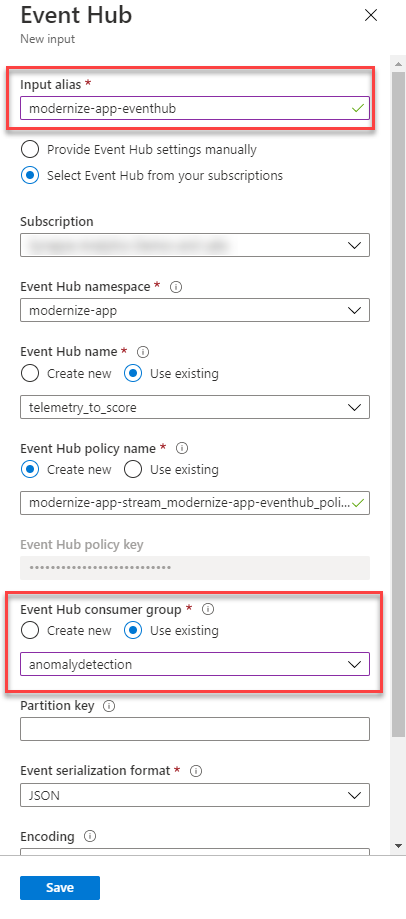
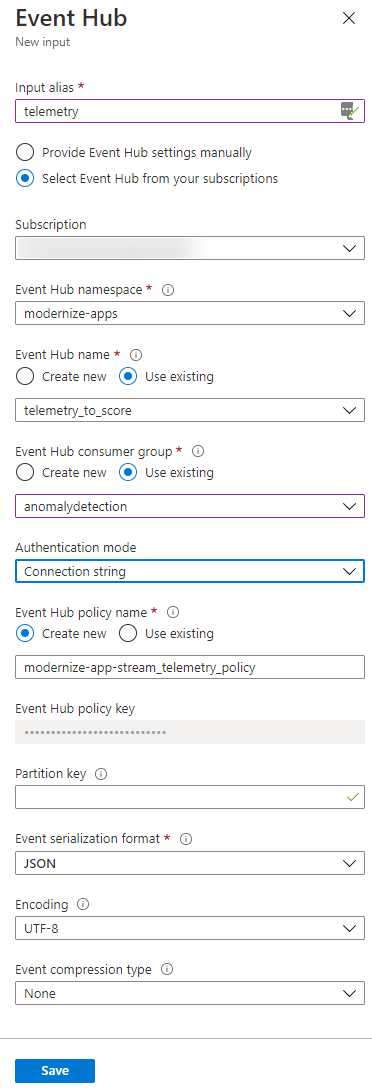
Updating screenshots and labs

diff --git a/Hands-on lab/HOL step-by step - Innovate and modernize apps with Data and AI.md b/Hands-on lab/HOL step-by step - Innovate and modernize apps with Data and AI.md
@@ -118,6 +118,8 @@ The web app is a modernized version of WWI's old monolithic web app, implementin
 
 6. Install [Power BI Desktop](https://aka.ms/pbidesktopstore).
 
+7. Install the latest version of [the .NET Core 3.1 SDK](https://dotnet.microsoft.com/download/dotnet/3.1).
+
 ## Before the hands-on lab
 
 Refer to the Before the hands-on lab setup guide manual before continuing to the lab exercises.
@@ -589,7 +591,7 @@ The instructions in this task come from the guide on [how to install IoT Edge on
     }
     ```
 
-    For an explanation of the code, we will send messages to Azure IoT Hub in the shape of `MessageBody`, which includes a `Machine` entry containing information about the monitored machine, as well as an `Ambient` entry which contains the current temperature and humidity in the room.  The `Run()` method controls message management, sending one message every `Interval` seconds, though this is configurable as an environment setting.  We connect to the Edge runtime and, once synchronization with the IoT Hub is complete, we build out new messages using `GenerateNewMessage()` and send them.  The `GenerateNewMessage()` function builds artificial messages which generally follow a normal distribution but occasionally exhibit anomalous behavior.  After generating and sending a message, we wait `Interval` milliseconds before sending a new message.
+    For an explanation of the code, we will send messages to Azure IoT Hub in the shape of `MessageBody`, which includes a `Machine` entry containing information about the monitored machine, as well as an `Ambient` entry which contains the current temperature and humidity in the room.  The `Run()` method controls message management, sending one message every `Interval` milliseconds, though this is configurable as an environment setting.  We connect to the Edge runtime and, once synchronization with the IoT Hub is complete, we build out new messages using `GenerateNewMessage()` and send them.  The `GenerateNewMessage()` function builds artificial messages which generally follow a normal distribution but occasionally exhibit anomalous behavior.  After generating and sending a message, we wait `Interval` milliseconds before sending a new message.
 
 12. Navigate to the **Command Palette** by selecting it from the View menu, or by pressing `Ctrl+Shift+P`. Select the option **Azure IoT Edge: Set Default Target Platform for Edge Solution**.
 
@@ -695,13 +697,14 @@ Now that your data is streaming into Azure IoT Hub, it is time to train and buil
    | Subscription ID                | _select the appropriate subscription_              |
    | Storage account                | _select `modernizeappstorage#SUFFIX#`_             |
    | Blob container                 | _select `synapse`_                                 |
-   | Allow Azure ML Service...      | _select `No`_                                      |
+   | Save credentials with the datastore for data access | _select `Yes`_                |
    | Authentication type            | _select `Account key`_                             |
    | Account key                    | _enter the account key_                            |
+   | Use workspace managed identity for data preview ...      | _select `No`_            |
 
    ![In the New datastore output, form field entries are filled in.](media/azure-ml-new-datastore-1.png 'New datastore')
 
-   >**Note**: If you have not stored your storage account key, navigate to your storage account. Then, in the **Settings** menu, select **Access keys** and copy the **Key** value in the **key1** section.
+   >**Note**: If you have not saved your storage account key anywhere yet, navigate to your storage account. Then, in the **Settings** menu, select **Access keys** and copy the **Key** value in the **key1** section.
 
 6. Select **Create** to add the new output.
 
@@ -711,7 +714,7 @@ Now that your data is streaming into Azure IoT Hub, it is time to train and buil
 
     ![In the Notebooks menu, Create new file is selected.](media/azure-ml-new-notebook.png 'Create new notebook')
 
-2. Enter the name **Stamp Press Maintenance Model** and select **Notebook** as the file type.  Then select **Create** to create the notebook.
+2. Enter the name **Stamp Press Maintenance Model.ipynb** and select **Notebook** as the file type.  Then select **Create** to create the notebook.
 
     ![Create a new notebook named Stamp Press Maintenance Model.](media/azure-ml-notebook-name.png 'Stamp Press Maintenance Model notebook')
 
@@ -845,7 +848,7 @@ Now that your data is streaming into Azure IoT Hub, it is time to train and buil
 
 ### Task 5: Test the predictive maintenance model
 
-1. On the **stamp-press-model** endpoint, copy the **REST endpoint** value to a text editor.
+1. While viewing the **stamp-press-model** endpoint details, copy the **REST endpoint** value to a text editor.
 
 2. Open a command prompt and run the following command, replacing `{YOUR CONTAINER LOCATION}` with the URI of your Azure Container Instance.
 
@@ -915,8 +918,10 @@ Now that IoT Hub is storing data, we can begin to process the sensor data messag
    | Field                          | Value                                              |
    | ------------------------------ | ------------------------------------------         |
    | Database id                    | _select `Create new` and enter `sensors`_          |
-   | Throughput                     | _`400`_                                            |
-   | Container id                   | _`telemetry`_                           |
+   | Share throughput across containers | _select the checkbox_                          |
+   | Throughput                     | _select `Manual`_                                  |
+   | Number of R/Us                 | _enter `400`_                                      |
+   | Container id                   | _`telemetry`_                                      |
    | Partition key                  | _`/machineid`_                                     |
    | Analytical store               | _select `On`_                                      |
 
@@ -964,43 +969,47 @@ Now that IoT Hub is storing data, we can begin to process the sensor data messag
 
     ![The C# language is selected.](media/code-function-select-language.png 'Select a language')
 
-4. Choose **IotHubTrigger** in the **Select a template for your project's first function** menu.
+4. Choose **.NET Core 3** in the **Select a .NET runtime** menu.
+
+    ![.NET Core 3 is selected.](media/code-function-select-net-runtime.png 'Select a .NET runtime')
+
+5. Choose **IotHubTrigger** in the **Select a template for your project's first function** menu.
 
     ![The IotHubTrigger template is selected.](media/code-function-select-iot-hub-trigger.png 'Select a template')
 
-5. Name the function **WriteEventsToTelemetryContainer**.
+6. Name the function **WriteEventsToTelemetryContainer**.
 
     ![The Azure Function name is entered.](media/code-function-select-telemetry-name.png 'Provide a function name')
 
-6. Name the namespace **ModernApp**.
+7. Name the namespace **ModernApp**.
 
     ![The Azure Functions namespace is entered.](media/code-function-select-namespace.png 'Provide a namespace')
 
-7. Choose **Create new local app setting** in the **Select setting from "local.settings.json"** menu.
+8. Choose **Create new local app setting** in the **Select setting from "local.settings.json"** menu.
 
     ![The option to create a new local app setting is selected.](media/code-function-select-local-setting.png 'Select setting from local.settings.json')
 
-8. Select **modernize-app-iot-#SUFFIX#** from the **Select an event hub namespace** menu. If you do not see this IoT Hub but you do see the Event Hub created before the hands-on lab, select it to continue.
+9.  Select **modernize-app-iot-#SUFFIX#** from the **Select an event hub namespace** menu. If you do not see this IoT Hub but you do see the Event Hub created before the hands-on lab, select it to continue.
 
     ![The modernize-app event hub is selected.](media/code-function-select-event-hub.png 'Select an event hub namespace')
 
-9. In the **Select an event hub** menu, select **Skip for now** if you do not see any hubs.
+10. In the **Select an event hub** menu, select **Skip for now** if you do not see any hubs.
 
     ![The skip for now option is selected.](media/code-function-select-event-hub-1.png 'Select an event hub')
 
-10. Enter **messages/modules/WWIFactorySensorModule/outputs** for the IoT Hub endpoint to which messages will be sent.
+11. Enter **messages/modules/WWIFactorySensorModule/outputs** for the IoT Hub endpoint to which messages will be sent.
 
     ![The IoT Hub endpoint is selected.](media/code-function-event-hub-endpoint.png 'The IoT Hub endpoint')
 
-11. After entering the endpoint name, you may see a modal dialog which indicates that in order to debug, you must select a storage account. Choose **Select storage account** and then select the **modernizeappstorage#SUFFIX#** account.
+12. After entering the endpoint name, you may see a modal dialog which indicates that in order to debug, you must select a storage account. Choose **Select storage account** and then select the **modernizeappstorage#SUFFIX#** account.
 
     ![Select storage account is selected.](media/code-create-function-storage.png 'In order to debug, you must select a storage account for internal use by the Azure Functions runtime.')
 
-12. Choose **Open in current window** in the **Select how you would like to open your project** menu.
+13. Choose **Open in current window** in the **Select how you would like to open your project** menu.
 
     ![The Azure Function will open in the current window.](media/code-function-select-open.png 'Open in current window')
 
-13. Open **local.settings.json** and add an entry for **IoTHubTriggerConnection** using the Event Hub-compatible endpoint in your IoT Hub. Then, add entries for **cosmosEndpointUrl** and **cosmosPrimaryKey** and fill this in with the URI and primary key for your Cosmos DB account, respectively.
+14. Open **local.settings.json** and add an entry for **IoTHubTriggerConnection** using the Event Hub-compatible endpoint in your IoT Hub. Then, add entries for **cosmosEndpointUrl** and **cosmosPrimaryKey** and fill this in with the URI and primary key for your Cosmos DB account, respectively.
 
     ```json
     "IoTHubTriggerConnection": "{ Your Event Hub-compatible endpoint }",
@@ -1012,7 +1021,7 @@ Now that IoT Hub is storing data, we can begin to process the sensor data messag
 
     ![The new local settings are filled in.](media/azure-function-local-settings.png 'local.settings.json')
 
-14. Replace the contents of **WriteEventsToTelemetryContainer.cs** with the following, and then save the file.
+15. Replace the contents of **WriteEventsToTelemetryContainer.cs** with the following, and then save the file.
 
     ```csharp
     using IoTHubTrigger = Microsoft.Azure.WebJobs.EventHubTriggerAttribute;
@@ -1105,7 +1114,7 @@ Now that IoT Hub is storing data, we can begin to process the sensor data messag
 
     This function reads events from IoT Hub, which means we need the same `MessageBody` class that our edge devices created.  This function's purpose is to execute the `Run()` method, which deserializes the message into a `MessageBody` and wraps it in a `TelemetryOutput` object.  This wrapper includes several newly-created attributes which we will use to track data as it changes through the course of data processing.
 
-15. In the Visual Studio Code terminal, enter the following commands.
+16. In the Visual Studio Code terminal, enter the following commands.
 
     ```cmd
     dotnet add package Microsoft.Azure.Cosmos
@@ -1137,7 +1146,7 @@ Now that IoT Hub is storing data, we can begin to process the sensor data messag
 
     ![The option to deploy is selected.](media/code-function-deploy-check.png 'Deploy')
 
-5. After deployment completes, navigate to the **modernize-app** resource group in the [Azure portal](https://portal.azure.com). Then, select the **modernize-app** entry with a Type of **App Service**.
+5. After deployment completes, navigate to the **modernize-app** resource group in the [Azure portal](https://portal.azure.com). Then, select the **modernize-app** entry with a Type of **Function App**.
 
     ![The modernize-app Function App is selected.](media/azure-function-select.png 'modernize-app')
 
@@ -1303,7 +1312,7 @@ Events are loading into the `telemetry` container. Using that data, we can creat
 
    | Step                             | Value                                              |
    | -------------------------------- | ------------------------------------------         |
-   | Template                         | _select `CosmosDBTrigger`_                         |
+   | Template                         | _select `Azure Cosmos DB trigger`_                 |
    | Function Name                    | _`ProcessTelemetryEvents`_                         |
    | Namespace                        | _`ModernApp`_                                      |
    | Setting from local.settings.json | _select `Create new local app setting`_            |
@@ -1431,10 +1440,11 @@ Events are loading into the `telemetry` container. Using that data, we can creat
                 request.Content.Headers.ContentType = new MediaTypeHeaderValue("application/json");
                 var response = client.SendAsync(request).Result;
 
-                // Azure ML returns an array of integer results, one per input item.
-                var predictions = JsonConvert.DeserializeObject<List<int>>(response.Content.ReadAsStringAsync().Result);
+                // Azure ML returns an array of float results, one per input item.
+                var predictions = JsonConvert.DeserializeObject<List<float>>(response.Content.ReadAsStringAsync().Result);
 
-                return predictions.ElementAt(0);
+                // We need to convert this to an integer.
+                return Convert.ToInt32(predictions.ElementAt(0));
             }
 
             public static TelemetryOutput CreateNewTelemetryOutput(TelemetryOutput to, MessageBody msg, int maintenanceRecommendation)
@@ -1580,7 +1590,6 @@ Your sensor data is flowing into the `telemetry_to_score` Event Hub and now you 
 
 2. Navigate to the **modernize-app-stream** entry.
 
-    TODO:
     ![In the modernize-app resource group, the Stream Analytics job is selected.](media/azure-stream-analytics-job.png 'Event Hubs Namespace')
 
 3. In the **Configure** menu, select **Storage account settings**. Then, on the Storage account settings page, select **Add storage account**.
@@ -1595,7 +1604,7 @@ Your sensor data is flowing into the `telemetry_to_score` Event Hub and now you 
 
     ![In Stream Analytics job inputs, Event Hub is selected.](media/azure-stream-analytics-input-eventhub.png 'Event Hub')
 
-6. In the **New input** tab, name your input `modernize-app-eventhub` and choose the appropriate IoT Hub that you created before the lab.  Ensure that the Event Hub name is **telemetry_to_score**.  Change the Event Hub consumer group to **Use existing** and select **anomalydetection** from the list. Leave the other settings at their default values and select **Save**.
+6. In the **New input** tab, name your input `telemetry` and choose the appropriate IoT Hub that you created before the lab.  Ensure that the Event Hub name is **telemetry_to_score**.  Change the Event Hub consumer group to **Use existing** and select **anomalydetection** from the list.  Set the **Authentication mode** to **Connection string** Leave the other settings at their default values and select **Save**.
 
    ![In the New input tab, form details are filled in.](media/azure-stream-analytics-input-eventhub-2.png 'Event Hub')
 
@@ -1635,9 +1644,9 @@ Your sensor data is flowing into the `telemetry_to_score` Event Hub and now you 
 
     ![The parseJson function is created.](media/azure-stream-analytics-new-function-2.png 'parseJson function')
 
-12. In the **Job topology** menu, select **Query**. You should see the input and output that you created, as well as sample events from Event Hub. If you do not see sample events, select the **modernize-app-eventhub** input.
+12. In the **Job topology** menu, select **Query**. You should see the input and output that you created, as well as sample events from Event Hub. If you do not see sample events, select the **telemetry** input and choose **Input preview**.
 
-    ![In the Stream Analytics query, inputs and ouptuts, as well as sample data, are visible.](media/azure-stream-analytics-query.png 'Stream Analytics query')
+    ![In the Stream Analytics query, inputs and ouptuts are visible.](media/azure-stream-analytics-query.png 'Stream Analytics query')
 
 13. In the query window, replace the existing query text with the following code.
 
@@ -1651,7 +1660,7 @@ Your sensor data is flowing into the `telemetry_to_score` Event Hub and now you 
             entity_id,
             event_data,
             CAST(udf.parseJson(event_data).machine.temperature AS float) AS temperature
-        FROM [modernize-app-eventhub]
+        FROM [telemetry]
     ),
     AnomalyDetectionStep AS
     (
@@ -1708,7 +1717,7 @@ Your sensor data is flowing into the `telemetry_to_score` Event Hub and now you 
 
    | Step                             | Value                                              |
    | -------------------------------- | ------------------------------------------         |
-   | Template                         | _select `CosmosDBTrigger`_                         |
+   | Template                         | _select `Azure Cosmos DB trigger`_                 |
    | Function Name                    | _`ProcessTemperatureAnomalyEvents`_                |
    | Namespace                        | _`ModernApp`_                                      |
    | Setting from local.settings.json | _select `modernizeapp_COSMOSDB`_                   |
@@ -1988,12 +1997,12 @@ In this exercise you will deploy a group of microservices that use the CQRS patt
 
         | Field                         | Value                                                                                                                                                                                                             |
         | ----------------------------- | ----------------------------------------------------------------------------------------------------------------------------------------------------------------------------------------------------------------- |
-        | <REGION_CODE>                 | The region your resource group is hosted in, such as `eastus`. Review the results of `Get-AzureRmLocation | Format-Table` if you are not sure. |
+        | <REGION_CODE>                 | The region your resource group is hosted in, such as `eastus`. Review the results of `Get-AzureRmLocation \| Format-Table` if you are not sure. |
         | <CONTAINER_REGISTRY_URL>      | The url of the container registry you created before the Hands-on Lab.                                                                                                                                            |
         | <CONTAINER_REGISTRY_USERNAME> | The username of the container registry you created before the Hands-on Lab.                                                                                                                                       |
         | <CONTAINER_REGISTRY_PASSWORD> | The Primary Password of the container registry you created before the Hands-on Lab.                                                                                                                               |
-        | <PG_CONNECTION_STRING>        | Server={modernize-app-c.postgres.database.azure.com}; Port=5432; Database=citus; Username=citus; Password={your_password}; SSL Mode=Require; Trust Server Certificate=true *(Replacing values where appropriate)* | 
-        | <COSMOS_ENDPOINT_URL>         | Something like https://modernize-app-#SUFFIX#.documents.azure.com:443/                                                                                                                                            |
+        | <PG_CONNECTION_STRING>        | `Server={modernize-app-c.postgres.database.azure.com}; Port=5432; Database=citus; Username=citus; Password={your_password}; SSL Mode=Require; Trust Server Certificate=true` *(Replacing values where appropriate)* | 
+        | <COSMOS_ENDPOINT_URL>         | Something like `https://modernize-app-#SUFFIX#.documents.azure.com:443/` |
         | <COSMOS_PRIMARY_KEY>          | The Primary Key of your Cosmos DB account.                                                                                                                                                                        |
 
 ### Task 3: Deploy the container group
@@ -2120,11 +2129,11 @@ In this final exercise, you will load data from Cosmos DB containers into an Azu
 
     ![Rename the Notebook to Write Cosmos Changes to SQL Pool.](media/azure-synapse-develop-cosmos-name.png 'Write Cosmos Changes to SQL Pool')
 
-11. In the notebook toolbar, change the language to **Spark (Scala)**. [The Azure Synapse Apache Spark connector to Synapse SQL connector currently only supports Scala](https://docs.microsoft.com/azure/synapse-analytics/spark/synapse-spark-sql-pool-import-export), so the default language of PySpark will not work.
+11. In the notebook toolbar, change the language to **Spark (Scala)**. [The Azure Synapse Apache Spark connector to Synapse SQL connector currently only supports Scala](https://docs.microsoft.com/azure/synapse-analytics/spark/synapse-spark-sql-pool-import-export), so the default language of PySpark will not work.  Also ensure that the notebook is attached to the `modernizeapp` Spark cluster.
 
     ![Change the notebook language to Scala.](media/azure-synapse-develop-cosmos-language.png 'Spark (Scala)')
 
-12. In the main section, select **{ } Add Code** and paste in the following code to retrieve data from the `telemetry` container and select only the necessary column, then parse the JSON event data for key measures.
+12. In the main section, paste in the following code to retrieve data from the `telemetry` container and select only the necessary column, then parse the JSON event data for key measures.
 
     ```scala
     // Load telemetry data
@@ -2153,14 +2162,14 @@ In this final exercise, you will load data from Cosmos DB containers into an Azu
 
     >**Note**: it may take several minutes for a Spark session to start. The notebook cell output text will read "Starting Spark session" during this time.
 
-13. Below the first code block, select **{ } Add Code** and add a new code block. Enter and then run the following code to create a new SQL Pool table with machine anomaly data.
+13. Below the first code block, select **+** and add a new code cell. Enter and then run the following code to create a new SQL Pool table with machine anomaly data.
 
     ```scala
     // Ensure that this table does not already exist on your SQL Pool; otherwise, you will get an error!
     dfFlat.write.synapsesql("modernapp.dbo.MachineTelemetry", Constants.INTERNAL)
     ```
 
-14. After the code segment completes, select **{ } Add Code** and add a new block with the following code to ensure that the SQL pool has loaded correctly.
+14. After the code segment completes, select **+** and add a new cell with the following code to ensure that the SQL pool has loaded correctly.
 
     ```scala
     val sqldf = spark.read.synapsesql("modernapp.dbo.MachineTelemetry") 
@@ -2169,7 +2178,7 @@ In this final exercise, you will load data from Cosmos DB containers into an Azu
 
     ![The SQL Pool results are returned.](media/azure-synapse-develop-cosmos-success.png 'Retrieve data from a SQL Pool')
 
-15. With the pattern established, add a new code block to load data from the `scored_telemetry` container into the SQL pool, providing data on temperature anomalies.
+15. Following this same pattern, add a new code cell to load data from the `scored_telemetry` container into the SQL pool, providing data on temperature anomalies.
 
     ```scala
     val dfs = spark.read.format("cosmos.olap").
@@ -2205,17 +2214,17 @@ In this final exercise, you will load data from Cosmos DB containers into an Azu
 
     ![Details are filled in for a new workspace.](media/power-bi-create-workspace.png 'Create a workspace')
 
-4. In the [Azure portal](https://portal.azure.com), type in "azure synapse analytics" in the top search menu and then select **Azure Synapse Analytics (workspaces preview)** from the results.
+4. In the [Azure portal](https://portal.azure.com), type in "azure synapse analytics" in the top search menu and then select **Azure Synapse Analytics** from the results.
 
-    ![In the Services search result list, Azure Synapse Analytics (workspaces preview) is selected.](media/azure-create-synapse-search.png 'Azure Synapse Analytics (workspaces preview)')
+    ![In the Services search result list, Azure Synapse Analytics is selected.](media/azure-create-synapse-search.png 'Azure Synapse Analytics')
 
 5. Select the workspace you created before the hands-on lab.
 
     ![The Azure Synapse Analytics workspace for the lab is selected.](media/azure-synapse-select.png 'modernizeapp workspace')
 
-6. Select **Launch Synapse Studio** from the Synapse workspace page.
+6. Select **Open Synapse Studio** from the Synapse workspace page.
 
-    ![Launch Synapse Studio is selected.](media/azure-synapse-launch-studio.png 'Launch Synapse Studio')
+    ![Open Synapse Studio is selected.](media/azure-synapse-launch-studio.png 'Open Synapse Studio')
 
 7. Select **Visualize** from the Synapse studio front page.
 

diff --git a/Hands-on lab/Before the HOL - Innovate and modernize apps with Data and AI.md b/Hands-on lab/Before the HOL - Innovate and modernize apps with Data and AI.md
@@ -71,6 +71,8 @@ Microsoft and the trademarks listed at <https://www.microsoft.com/legal/intellec
 
 6. Install [Power BI Desktop](https://aka.ms/pbidesktopstore).
 
+7. Install the latest version of [the .NET Core 3.1 SDK](https://dotnet.microsoft.com/download/dotnet/3.1).
+
 ## Before the hands-on lab
 
 Duration: 40 minutes
